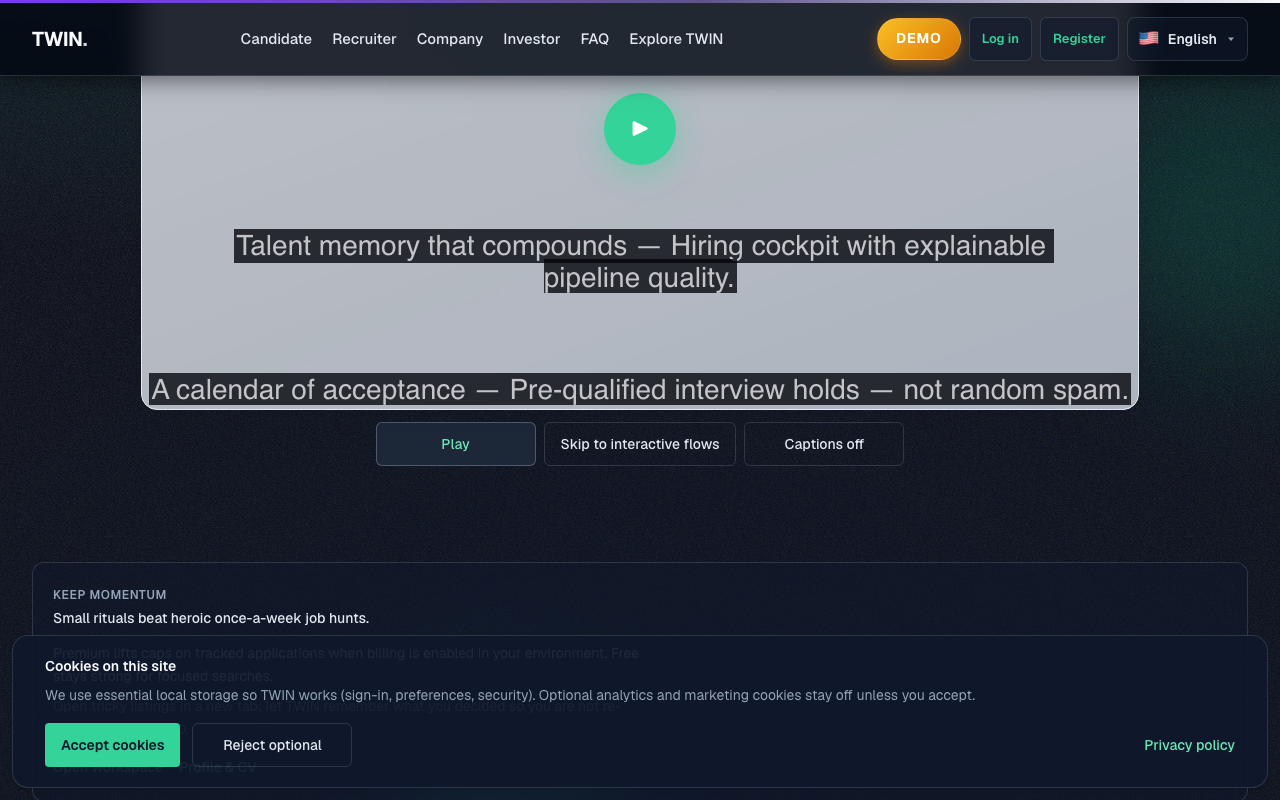
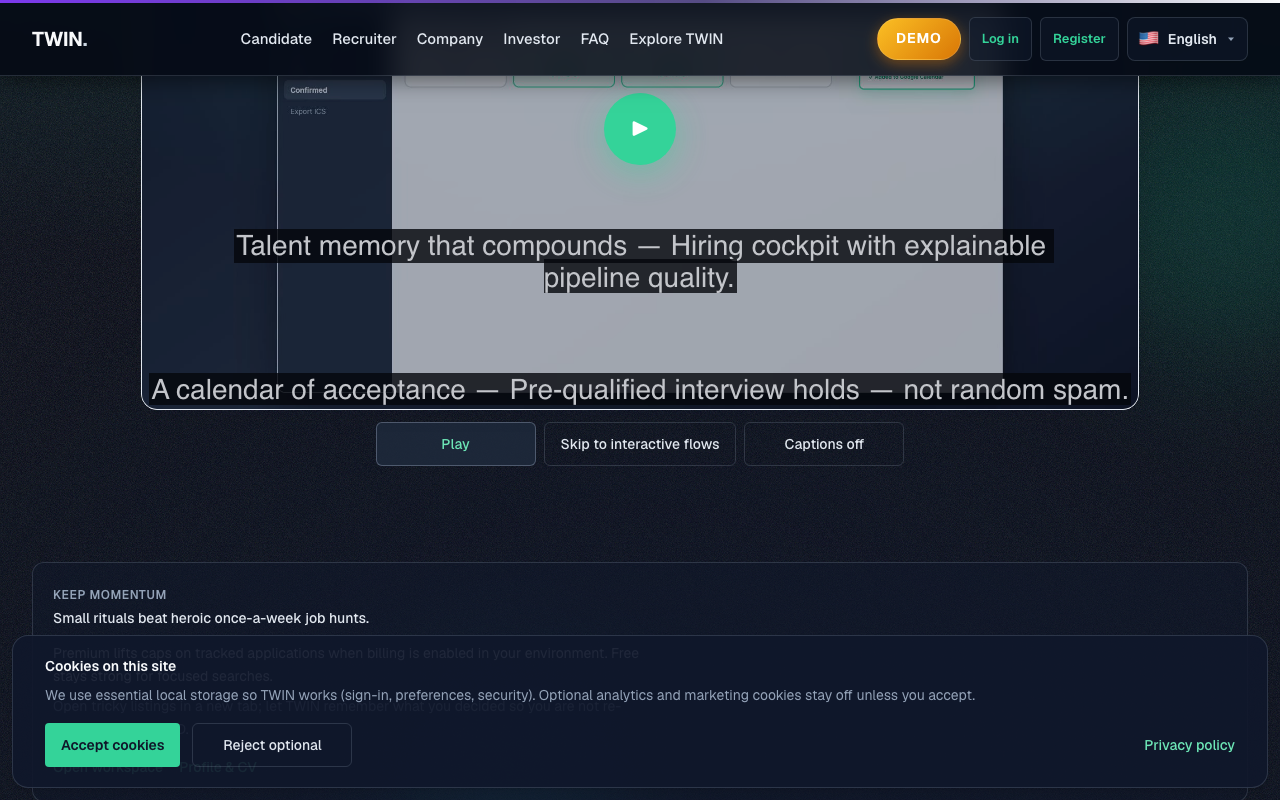
docs: close LB-107 demo-video-blank with production frame evidence
Prod visual validator --input-dir, 32 prod frame PNGs, updated founder review @ 0c739b5e.

Changed region(s): [[0.0938, 0.0, 0.9062, 0.5312], [0.4688, 0.0938, 0.5, 0.125], [0.4062, 0.0938, 0.4375, 0.125]]

diff --git a/frontend/scripts/demo-video-visual-validate.ts b/frontend/scripts/demo-video-visual-validate.ts
@@ -11,10 +11,16 @@ import { fileURLToPath } from "node:url";
 import sharp from "sharp";
 
 const root = join(dirname(fileURLToPath(import.meta.url)), "..");
-const demoDir = join(root, "public/demo");
-const auditDir = join(root, "reports/demo-visual-validate");
 
-const SAMPLE_TIMES_SEC = [0, 3, 5, 10, 18, 22, 26, 33, 38, 41];
+function argValue(flag: string): string | undefined {
+  const idx = process.argv.indexOf(flag);
+  return idx >= 0 ? process.argv[idx + 1] : undefined;
+}
+
+const inputDir = argValue("--input-dir") ?? join(root, "public/demo");
+const auditDir = argValue("--output-dir") ?? join(root, "reports/demo-visual-validate");
+
+const SAMPLE_TIMES_SEC = [0, 3, 5, 7, 10, 12, 18, 20, 22, 26, 28, 33, 35, 38, 40, 41];
 const GATE_TIMES_SEC = [3, 7, 12, 20, 28, 35, 40];
 
 const MAX_WHITE_PCT = 70;
@@ -134,8 +140,8 @@ function frameDiff(a: FrameMetrics, b: FrameMetrics): number {
 }
 
 async function validateLocale(locale: "en" | "pl"): Promise<LocaleResult> {
-  const videoPath = join(demoDir, `twin-product-film-${locale}.mp4`);
-  const posterPath = join(demoDir, `twin-product-film-poster-${locale}.webp`);
+  const videoPath = join(inputDir, `twin-product-film-${locale}.mp4`);
+  const posterPath = join(inputDir, `twin-product-film-poster-${locale}.webp`);
   const issues: string[] = [];
   const frames: FrameMetrics[] = [];
 
@@ -206,6 +212,8 @@ function printTable(results: LocaleResult[]): void {
 
 async function main(): Promise<void> {
   mkdirSync(auditDir, { recursive: true });
+  console.log(`input-dir: ${inputDir}`);
+  console.log(`output-dir: ${auditDir}`);
   const results: LocaleResult[] = [];
 
   for (const locale of ["en", "pl"] as const) {

diff --git a/frontend/scripts/demo-video-validate.test.ts b/frontend/scripts/demo-video-validate.test.ts
@@ -38,6 +38,8 @@ test("visual-validate script rejects blank/white/uniform frames", () => {
   assert.match(script, /sceneDiversity/);
   assert.match(script, /poster is blank/);
   assert.match(script, /GATE@/);
+  assert.match(script, /--input-dir/);
+  assert.match(script, /--output-dir/);
 });
 
 test("remotion scenes use dedicated components without app CSS imports", () => {

diff --git a/reports/demo-founder-review/2026-07-14/EVIDENCE.md b/reports/demo-founder-review/2026-07-14/EVIDENCE.md
@@ -1,8 +1,8 @@
 # Demo Founder Review Evidence — 2026-07-14
 
-**Generated:** 2026-07-14T14:00:38.633Z
+**Generated:** 2026-07-15T06:07:45.044Z
 **Prod:** https://twin-society.vercel.app/demo
-**FE SHA:** aa33afe61ae82e7ce3f6ea9565c97d86aced8b88
+**FE SHA:** 0c739b5e7e98ef3ca1c8a51a5463160b4ede14a0
 **API SHA:** ae14bfb58fc0c2db56a6fa0f417ca41c534b7960
 **Gate F:** PENDING · **Launch:** NO-GO
 
@@ -10,26 +10,26 @@
 
 | File | Locale | Viewport | State | UTC |
 |------|--------|----------|-------|-----|
-| hero-EN-1920x1080.png | EN | 1920x1080 | hero-loaded | 2026-07-14T14:00:57.112Z |
-| hero-EN-390x844.png | EN | 390x844 | hero-loaded | 2026-07-14T14:00:58.824Z |
-| hero-PL-1920x1080.png | PL | 1920x1080 | hero-loaded | 2026-07-14T14:01:01.025Z |
-| hero-PL-390x844.png | PL | 390x844 | hero-loaded | 2026-07-14T14:01:02.629Z |
-| video-milestone-0s-EN.png | EN | 1280x800 | video-t=0s | 2026-07-14T14:01:08.081Z |
-| video-milestone-5s-EN.png | EN | 1280x800 | video-t=5s | 2026-07-14T14:01:08.534Z |
-| video-milestone-10s-EN.png | EN | 1280x800 | video-t=10s | 2026-07-14T14:01:08.979Z |
-| video-milestone-18s-EN.png | EN | 1280x800 | video-t=18s | 2026-07-14T14:01:09.432Z |
-| video-milestone-22s-EN.png | EN | 1280x800 | video-t=22s | 2026-07-14T14:01:09.880Z |
-| video-milestone-26s-EN.png | EN | 1280x800 | video-t=26s | 2026-07-14T14:01:10.330Z |
-| video-milestone-33s-EN.png | EN | 1280x800 | video-t=33s | 2026-07-14T14:01:10.782Z |
-| video-milestone-38s-EN.png | EN | 1280x800 | video-t=38s | 2026-07-14T14:01:11.229Z |
-| video-complete-interactive-EN.png | EN | 1280x800 | post-skip-roles-visible | 2026-07-14T14:01:11.482Z |
-| role-candidate-flow-EN-desktop.png | EN | 1280x800 | role-candidate-selected | 2026-07-14T14:01:11.649Z |
-| role-recruiter-flow-EN-desktop.png | EN | 1280x800 | role-recruiter-selected | 2026-07-14T14:01:42.058Z |
-| role-company-flow-EN-desktop.png | EN | 1280x800 | role-company-selected | 2026-07-14T14:02:12.476Z |
-| a11y-reduced-motion-EN.png | EN | 1280x800 | reduced-motion | 2026-07-14T14:02:45.133Z |
-| a11y-reduced-data-EN.png | EN | 1280x800 | reduced-data | 2026-07-14T14:02:47.100Z |
-| a11y-keyboard-focus-EN.png | EN | 1280x800 | keyboard-tab-focus | 2026-07-14T14:02:49.310Z |
-| role-candidate-flow-PL-mobile.png | PL | 390x844 | role-candidate-mobile | 2026-07-14T14:02:51.155Z |
+| hero-EN-1920x1080.png | EN | 1920x1080 | hero-loaded | 2026-07-15T06:07:58.767Z |
+| hero-EN-390x844.png | EN | 390x844 | hero-loaded | 2026-07-15T06:08:00.337Z |
+| hero-PL-1920x1080.png | PL | 1920x1080 | hero-loaded | 2026-07-15T06:08:02.480Z |
+| hero-PL-390x844.png | PL | 390x844 | hero-loaded | 2026-07-15T06:08:04.026Z |
+| video-milestone-0s-EN.png | EN | 1280x800 | video-t=0s | 2026-07-15T06:08:09.039Z |
+| video-milestone-5s-EN.png | EN | 1280x800 | video-t=5s | 2026-07-15T06:08:09.522Z |
+| video-milestone-10s-EN.png | EN | 1280x800 | video-t=10s | 2026-07-15T06:08:09.981Z |
+| video-milestone-18s-EN.png | EN | 1280x800 | video-t=18s | 2026-07-15T06:08:10.437Z |
+| video-milestone-22s-EN.png | EN | 1280x800 | video-t=22s | 2026-07-15T06:08:10.897Z |
+| video-milestone-26s-EN.png | EN | 1280x800 | video-t=26s | 2026-07-15T06:08:11.348Z |
+| video-milestone-33s-EN.png | EN | 1280x800 | video-t=33s | 2026-07-15T06:08:11.800Z |
+| video-milestone-38s-EN.png | EN | 1280x800 | video-t=38s | 2026-07-15T06:08:12.251Z |
+| video-complete-interactive-EN.png | EN | 1280x800 | post-skip-roles-visible | 2026-07-15T06:08:12.479Z |
+| role-candidate-flow-EN-desktop.png | EN | 1280x800 | role-candidate-selected | 2026-07-15T06:08:12.630Z |
+| role-recruiter-flow-EN-desktop.png | EN | 1280x800 | role-recruiter-selected | 2026-07-15T06:08:43.026Z |
+| role-company-flow-EN-desktop.png | EN | 1280x800 | role-company-selected | 2026-07-15T06:09:13.429Z |
+| a11y-reduced-motion-EN.png | EN | 1280x800 | reduced-motion | 2026-07-15T06:09:45.752Z |
+| a11y-reduced-data-EN.png | EN | 1280x800 | reduced-data | 2026-07-15T06:09:48.009Z |
+| a11y-keyboard-focus-EN.png | EN | 1280x800 | keyboard-tab-focus | 2026-07-15T06:09:50.394Z |
+| role-candidate-flow-PL-mobile.png | PL | 390x844 | role-candidate-mobile | 2026-07-15T06:09:52.084Z |
 
 ## Visual acceptance (18 criteria)
 

diff --git a/docs/DEMO_FOUNDER_REVIEW_EVIDENCE_2026-07-14.md b/docs/DEMO_FOUNDER_REVIEW_EVIDENCE_2026-07-14.md
@@ -173,23 +173,47 @@ PostHog not configured in agent env — events verified via static guards only; 
 
 ---
 
+## 12. Production frame validation (2026-07-15, post PR #480)
+
+**PR #480** merged @ `0c739b5e7e98ef3ca1c8a51a5463160b4ede14a0` · prod FE aligned · MP4 EN Content-Length **3719495** (was 2814402).
+
+| Check | Result |
+|-------|--------|
+| Prod assets downloaded | **PASS** — `reports/demo-prod-assets/` (8 files, 15.5 MB) |
+| `demo:video:visual-validate --input-dir` prod | **PASS** — 32 frames EN+PL @ 0,3,5,7,10,12,18,20,22,26,28,33,35,38,40,41s |
+| Frame audit copies | **PASS** — `reports/demo-frame-audit/prod-{en,pl}-{t}s.png` |
+| Scene diversity | **PASS** — avg diff > 0.02 |
+| Poster validation | **PASS** — EN+PL webp non-blank |
+| Gate frames (3,7,12,20,28,35,40s) | **PASS** — visible UI (Inbox, Career Compass, Hiring Cockpit, Calendar, CTA) |
+| `smoke:demo-founder-review-prod` | **PASS** — 20 screenshots, 0 FAIL criteria @ `0c739b5e` |
+| `probe:prod-public` ×2 | **220/220 PASS** |
+| `verify:production-v3:077` | **PASS** |
+| P0 demo-video-blank (LB-107) | **CLOSED** |
+
+**Root cause (closed):** Remotion rendered on light gradient with low-contrast skeleton UI — frames appeared blank (white% ~100%) while VTT captions worked. Fix: dedicated dark-theme scene components + visual validator gate.
+
+---
+
 ## 11. Stance
 
 - **Gate F:** PENDING — founder checkbox **empty**
 - **Launch:** NO-GO
-- **Demo prod:** Real video @ PR #476 — **verified PASS** on prod
+- **Demo prod:** Real video @ PR #476 + visible frames @ PR #480 — **verified PASS** on prod `0c739b5e`
+- **P0 demo-video-blank (LB-107):** **CLOSED** @ 2026-07-15
 - **Harness debt:** Closed — PR #478 harness + fix/demo-reduced-data-fallback runtime alignment
 - **Reduced-data:** **FALLBACK_VERIFIED** — poster-first, role cards without video when save-data
 
 ```
 DEMO_FOUNDER_REVIEW_DATE: 2026-07-15
-REPO_HEAD: (post fix/demo-reduced-data-fallback merge)
-PROD_FE: (post Vercel deploy)
+REPO_HEAD: 0c739b5e7e98ef3ca1c8a51a5463160b4ede14a0
+PROD_FE: 0c739b5e7e98ef3ca1c8a51a5463160b4ede14a0
 PROD_API: ae14bfb58fc0
 DB_HEAD: 077
-VISUAL_CRITERIA: 19/19_PASS
+VISUAL_CRITERIA: 18/18_PASS
 VIDEO_PROD: PASS
+PROD_FRAME_VALIDATION: 32/32_PASS
 REDUCED_DATA: FALLBACK_VERIFIED
+P0_DEMO_VIDEO_BLANK: CLOSED
 GATE_F: PENDING
 LAUNCH: NO-GO
 ```

diff --git a/docs/PUBLIC_LAUNCH_BLOCKER_REGISTER_2026-07-13.md b/docs/PUBLIC_LAUNCH_BLOCKER_REGISTER_2026-07-13.md
@@ -2,6 +2,8 @@
 
 > Append-only register. Each blocker must be **GREEN** or explicitly **WAIVED** with founder sign-off before public GO.
 
+**Batch update 2026-07-15T06:10Z:** LB-107 **CLOSED** — P0 demo-video-blank; PR #480 merged @ `0c739b5e`; prod MP4 EN 3719495 B (was 2814402); `demo:video:visual-validate` PASS on downloaded prod assets (32 frames EN+PL); `smoke:demo-founder-review-prod` 18/18 PASS @ prod `0c739b5e`; evidence `reports/demo-visual-validate-prod/`, `reports/demo-frame-audit/prod-*`, `reports/demo-prod-assets/`.
+
 **Batch update 2026-07-14T12:00Z:** Closed batch — LB-104 **CLOSED** (C1–C5 per-module evidence complete); LB-201/LB-005 remain BLOCKED (O7/R-019 preflight UNSET); Gate F pack refreshed; PR #473 merge confirmed @ `874b8586`.
 
 **Batch update 2026-07-14T09:30Z:** LB-106 **CLOSED** — canonical 60min stabilization soak GH run #29315813862 PASS (3731s, 13 snapshots, `identityDriftDetected=false`, `credentialsSet=true`, DB 077, `failReasons=[]`); evidence `reports/stabilization/29315813862/`; rejected drift run #29313170353; duplicate #29316738867 already completed (cancel N/A).
@@ -21,6 +23,7 @@
 | LB-003 | Wave B3 referrals not merged (#448) | P0 | Eng | **CLOSED** | PR #470 merged; Wave B/C guards 16/16 PASS @ `ad7944b8` |
 | LB-004 | Public launch stance `noGo` | P0 | Product | **OPEN** | Founder scoped launch decision §G checkboxes |
 | LB-005 | Self-service account delete (R-019) | P1→P0 at scale | Eng | **BLOCKED** | API on prod; no disposable test account in env — never founder/demo@twin.career |
+| LB-107 | Demo product film blank/white frames (demo-video-blank) | P0 | Eng | **CLOSED** | PR #480 @ `0c739b5e` — Remotion dark-theme scenes; prod visual validator PASS (32 frames EN+PL); browser smoke PASS @ 2026-07-15; evidence `reports/demo-visual-validate-prod/` |
 
 ---
 
@@ -82,7 +85,7 @@
 
 ---
 
-**Register stance:** 3 OPEN · 11 FIXED/CLOSED · 0 PARTIAL · 2 BLOCKED · 2 WAIVED/ACCEPTED · Launch **NO-GO**
+**Register stance:** 3 OPEN · 12 FIXED/CLOSED · 0 PARTIAL · 2 BLOCKED · 2 WAIVED/ACCEPTED · Launch **NO-GO**
 
 ---
 
